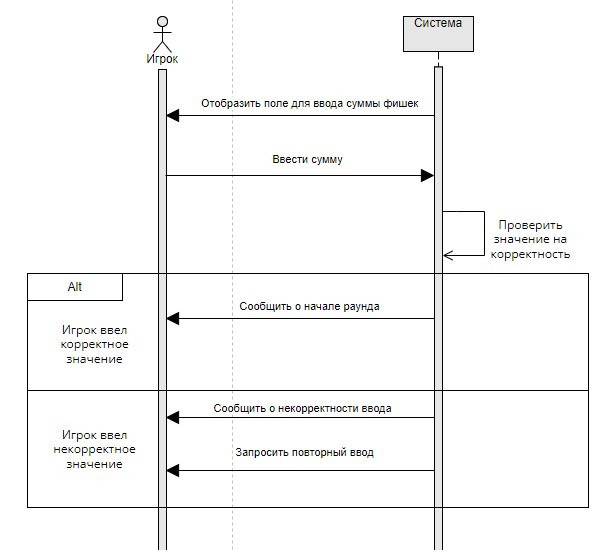
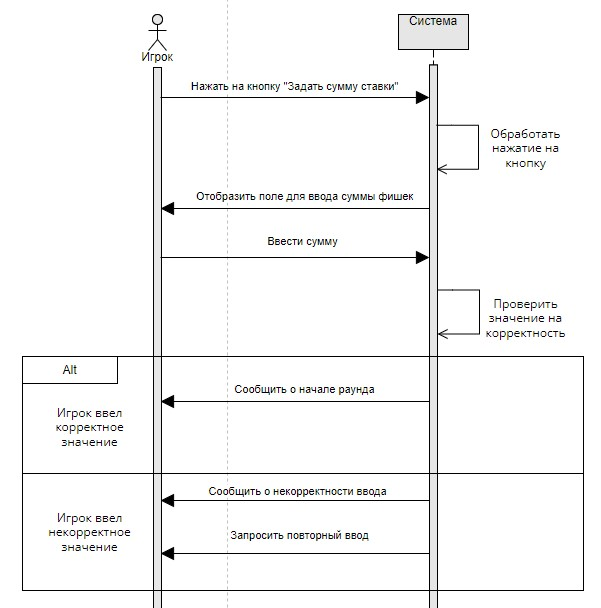
lab_3_update

diff --git a/lab_3/lab_3.md b/lab_3/lab_3.md
@@ -6,6 +6,12 @@ ___
 
 ![erd диаграмма](1.jpg)
 
+Операция | Запустить игру
+:-----------------------|-----------------------:
+Ссылки | Прецеденты: Запуск игры
+Предусловия | Пользователь решил запустить игру
+Постусловия | Приложение запущено
+
 Операция | Запрашивает у игрока ввод количества ботов
 :-----------------------|-----------------------:
 Ссылки | Прецеденты: Запуск игры
@@ -47,12 +53,6 @@ ___
 
 ![erd диаграмма](2.jpg)
 
-Операция | Отобразить кнопку "Сделать ставку"
-:-----------------------|-----------------------:
-Ссылки | Прецеденты: Сделать ставку
-Предусловия | До игрока дошла очередь в раунде
-Постусловия | Игроку отображается кнопка "Сделать ставку"
-
 Операция | Нажимает на кнопку "Сделать ставку"
 :-----------------------|-----------------------:
 Ссылки | Прецеденты: Сделать ставку
@@ -88,12 +88,6 @@ ___
 
 ![erd диаграмма](3.jpg)
 
-Операция | Отобразить кнопку "Сдать карту"
-:-----------------------|-----------------------:
-Ссылки | Прецеденты: Сдать карту
-Предусловия | Игрок является сдающим
-Постусловия | Отобразилась кнопка "Сдать карту"
-
 Операция | Нажимает на кнопку "Сдать карту"
 :-----------------------|-----------------------:
 Ссылки | Прецеденты: Сдать карту
@@ -117,10 +111,22 @@ ___
 
 ![erd диаграмма](4.jpg)
 
+Операция | Нажать на кнопку "Задать сумму ставки"
+:-----------------------|-----------------------:
+Ссылки | Прецеденты: Внести фишки в банк
+Предусловия | Оборажена кнопка "Задать сумму ставки"
+Постусловия | Игрок нажал на кнопку "Задать сумму ставки"
+
+Операция | Обработать нажатие на кнопку
+:-----------------------|-----------------------:
+Ссылки | Прецеденты: Внести фишки в банк
+Предусловия | Игрок нажал на кнопку "Задать сумму ставки"
+Постусловия | Система считала нажатие на кнопку "Задать сумму ставки"
+
 Операция | Отобразить поле для ввода суммы фишек
 :-----------------------|-----------------------:
 Ссылки | Прецеденты: Внести фишки в банк
-Предусловия | Начинается первый раунд
+Предусловия | Игрок нажал на кнопку "Задать сумму ставки" и система считала нажатие
 Постусловия | Отобразилось поле для ввода суммы фишек
 
 Операция | Ввести сумму
@@ -158,12 +164,6 @@ ___
 
 ![erd диаграмма](5.jpg)
 
-Операция | Отобразить кнопку "Пропустить ход"
-:-----------------------|-----------------------:
-Ссылки | Прецеденты: Пропустить ход
-Предусловия | До игрока дошла очередь в раунде
-Постусловия | Отобразилась кнопка "Пропустить ход"
-
 Операция | Нажать на кнопку "Пропустить ход"
 :-----------------------|-----------------------:
 Ссылки | Прецеденты: Пропустить ход
@@ -186,12 +186,6 @@ ___
 ## Прецедент "Завершить игру"
 
 ![erd диаграмма](6.jpg)
-
-Операция | Отобразить кнопку "Завершить игру"
-:-----------------------|-----------------------:
-Ссылки | Прецеденты: Завершить игру
-Предусловия | Игрок находится в игровом процессе
-Постусловия | Отображена кнопка "Завершить игру"
 
 Операция | Нажимает на кнопку "Завершить игру"
 :-----------------------|-----------------------:
